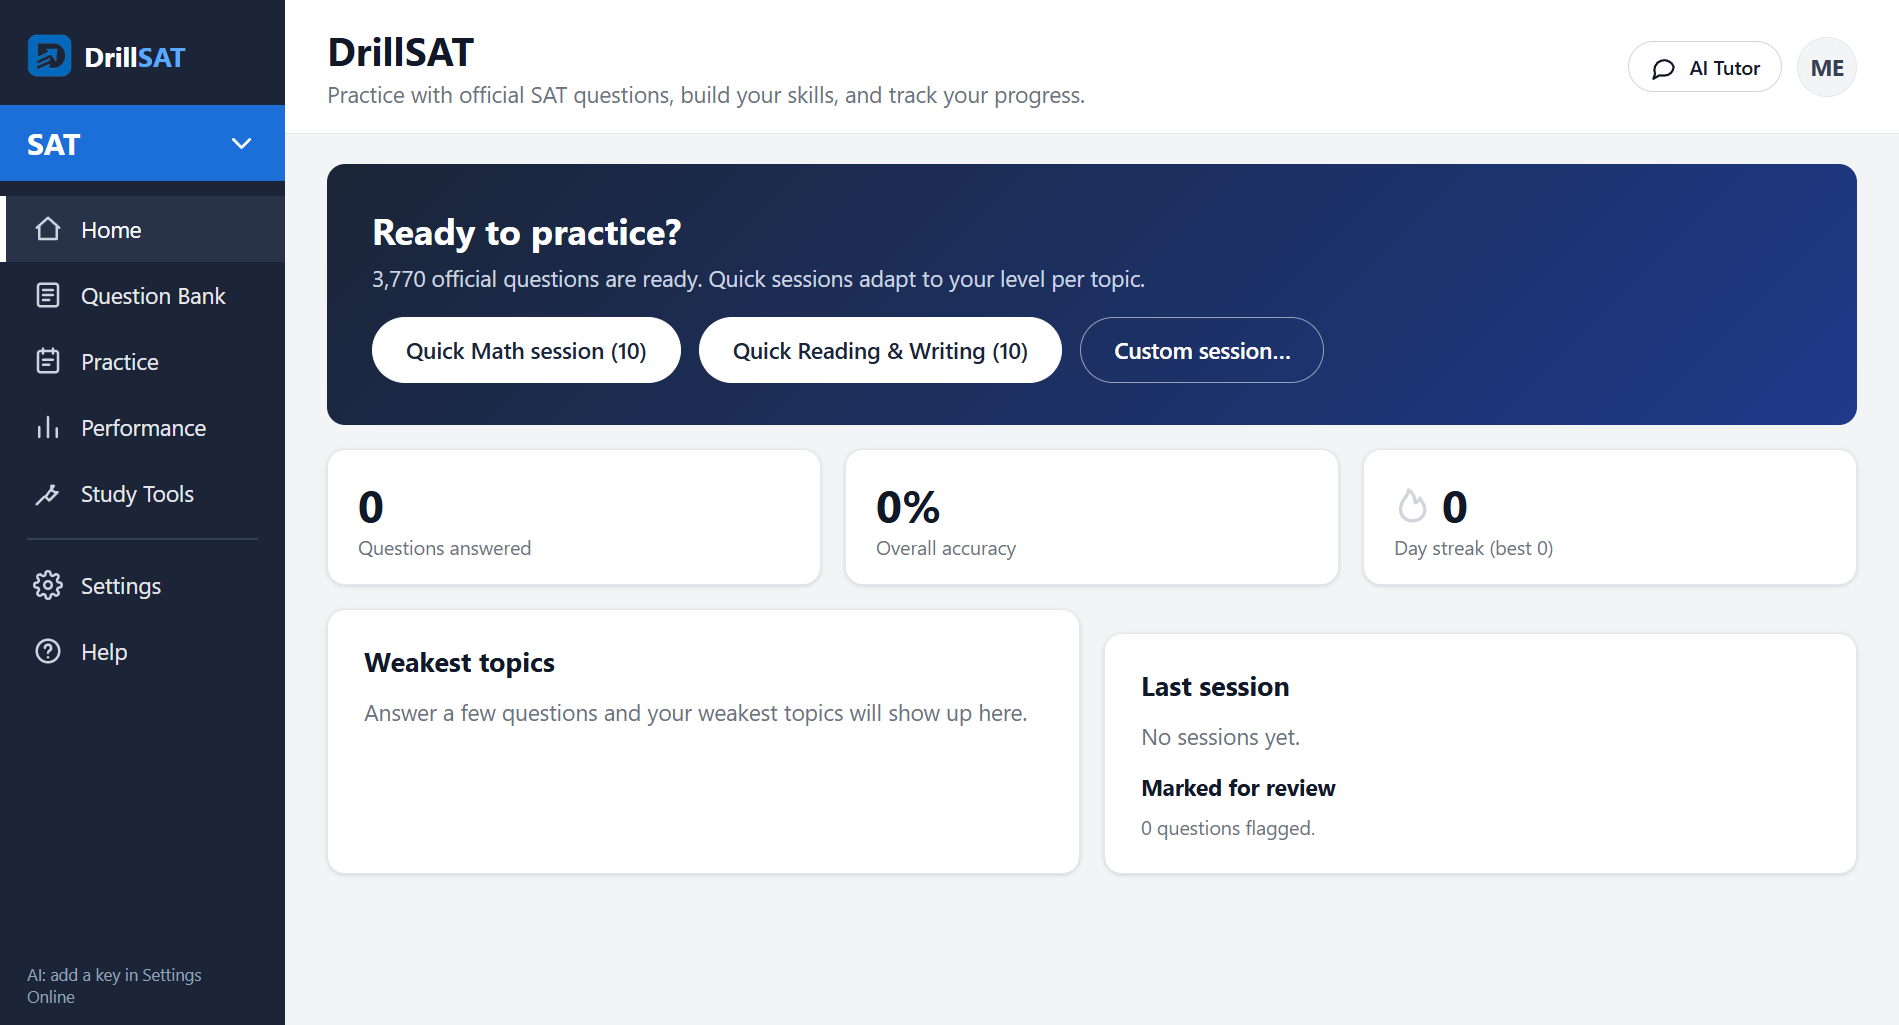
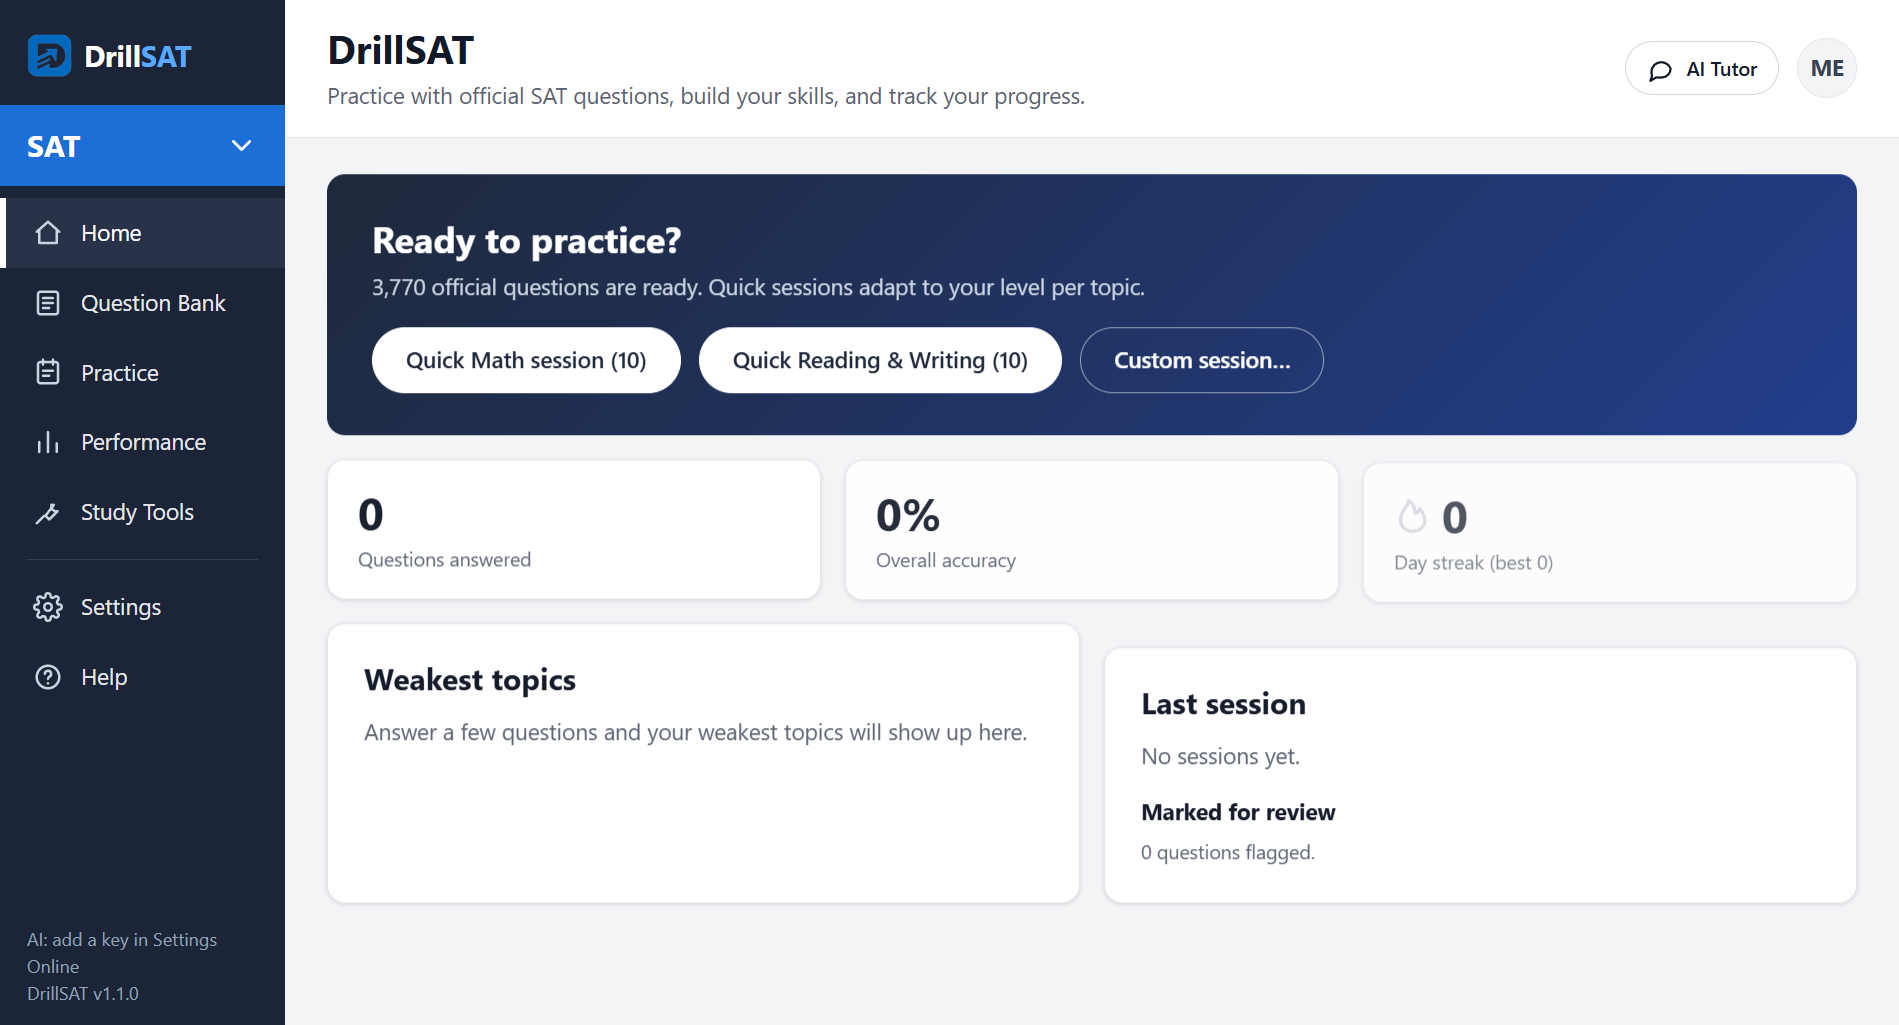
Docs: 1.1.0 README (download, install/uninstall), refreshed screenshots, UI tour GIF

diff --git a/docs/index.html b/docs/index.html
@@ -114,9 +114,9 @@
   <section id="wine">
     <h2>Linux via Wine</h2>
     <p class="sub">Use the portable .exe.</p>
-    <pre class="card" style="overflow:auto"><code>wine DrillSAT-1.0.0-portable.exe
+    <pre class="card" style="overflow:auto"><code>wine DrillSAT-1.1.0-portable.exe
 # blank window? add the flags the app would set itself when it detects Wine:
-wine DrillSAT-1.0.0-portable.exe --disable-gpu --no-sandbox</code></pre>
+wine DrillSAT-1.1.0-portable.exe --disable-gpu --no-sandbox</code></pre>
     <p class="sub" style="margin-top:14px">Details and known workarounds are in the <a href="https://github.com/youngfalconstone/DrillSAT#running-under-wine-linux">README</a>.</p>
   </section>
 

diff --git a/README.md b/README.md
@@ -2,7 +2,9 @@
 
 # DrillSAT
 
-**Download:** <https://youngfalconstone.github.io/DrillSAT/> · [Releases](https://github.com/youngfalconstone/DrillSAT/releases)
+**Current version: 1.1.0** · **Download:** <https://youngfalconstone.github.io/DrillSAT/> · [Latest release](https://github.com/youngfalconstone/DrillSAT/releases/latest) · [Changelog](CHANGELOG.md)
+
+<p align="center"><img src="docs/img/tour.gif" alt="DrillSAT tour: question bank, a math question with the official explanation, a practice session and the AI tutor" width="800"></p>
 
 A desktop SAT practice app built with Electron. It ships the complete College Board SAT question
 bank (1,925 Math + 1,845 Reading & Writing questions with answer keys and official explanations),
@@ -25,15 +27,27 @@ Everything except the AI features and the calculator works offline.
 
 ## Quick start (Windows)
 
-1. Grab a build from the [download page](https://youngfalconstone.github.io/DrillSAT/) or [Releases](https://github.com/youngfalconstone/DrillSAT/releases):
-   - `DrillSAT-1.0.0-setup.exe` — installer (NSIS). Installs per-user, no admin rights needed.
-   - `DrillSAT-1.0.0-portable.exe` — single portable executable, nothing to install.
+1. Grab a build from the [download page](https://youngfalconstone.github.io/DrillSAT/) or the [latest release](https://github.com/youngfalconstone/DrillSAT/releases/latest):
+   - `DrillSAT-1.1.0-setup.exe` — installer (NSIS). Installs per-user into `%LOCALAPPDATA%\Programs\DrillSAT`,
+     no admin rights needed, adds a Start Menu and desktop shortcut.
+   - `DrillSAT-1.1.0-portable.exe` — single portable executable, nothing to install.
+   The binaries are not code-signed, so SmartScreen shows "Windows protected your PC" on first launch:
+   click *More info* → *Run anyway*.
    No separate runtime is required; Electron bundles its own Chromium and Node.
 2. Launch it. The question bank is included and loads immediately.
 3. Open **Settings** to add your API keys (next section). Without keys you can still browse, practice,
    see official explanations and track progress — only the AI features and the calculator are disabled.
 
-Data (settings, progress, generated questions) lives in `%APPDATA%\drillsat\`.
+Data (settings, progress, generated questions) lives in `%APPDATA%\DrillSAT\`.
+
+### Uninstalling
+
+- Installer build: *Settings → Apps → Installed apps → DrillSAT → Uninstall*, or run
+  `"%LOCALAPPDATA%\Programs\DrillSAT\Uninstall DrillSAT.exe"`. This removes the program folder, the
+  shortcuts and the registry entry.
+- Your data is deliberately left in place. To remove it too, delete `%APPDATA%\DrillSAT\` (this holds your
+  encrypted API keys, progress and generated questions, so back it up first if you may reinstall).
+- Portable build: delete the `.exe`; data is in the same `%APPDATA%\DrillSAT\` folder.
 
 ## Adding API keys
 
@@ -61,7 +75,7 @@ runs best. Use the **portable** exe.
 # Wine 8+ recommended (tested configuration target: wine-9.x, 64-bit prefix)
 export WINEPREFIX=~/.wine-sat   # optional: dedicated prefix
 winecfg                          # once; pick Windows 10
-wine DrillSAT-1.0.0-portable.exe
+wine DrillSAT-1.1.0-portable.exe
 ```
 
 Notes and known workarounds:
@@ -69,7 +83,7 @@ Notes and known workarounds:
 - The app detects Wine (via `WINEPREFIX`/`WINELOADER` or `winemenubuilder.exe` in `system32`) and
   automatically disables GPU acceleration and the Chromium sandbox, which are the two things that
   commonly break Electron under Wine. You can force these flags on any platform:
-  `wine DrillSAT-1.0.0-portable.exe --disable-gpu --no-sandbox`.
+  `wine DrillSAT-1.1.0-portable.exe --disable-gpu --no-sandbox`.
 - If the window opens but stays blank, also try `--disable-gpu-compositing --in-process-gpu`.
 - Secure key storage: under Wine, DPAPI is usually available; if `safeStorage` reports it is not, the
   app stores keys base64-obfuscated and says so in Settings → About ("Secure key storage: Unavailable").
@@ -160,7 +174,9 @@ npm run build && npx playwright test -c tests/e2e/playwright.config.ts
 # e2e: launches the built app, browses the bank, runs a practice session, checks settings/secure
 # storage and the AI/Desmos error paths. Set DESMOS_API_KEY=<valid key> to also exercise the live
 # calculator (needs internet). Set SAT_E2E_EXE="release/win-unpacked/DrillSAT.exe" to run the
-# same suite against the packaged build (done for the 1.0.0 release).
+# same suite against the packaged build (done for every release).
+# tests/e2e/scroll.spec.ts and motion.spec.ts cover scrolling on every screen, scroll restore,
+# motion tokens, prefers-reduced-motion and frame timing while scrolling the full list.
 ```
 
 ## Troubleshooting
